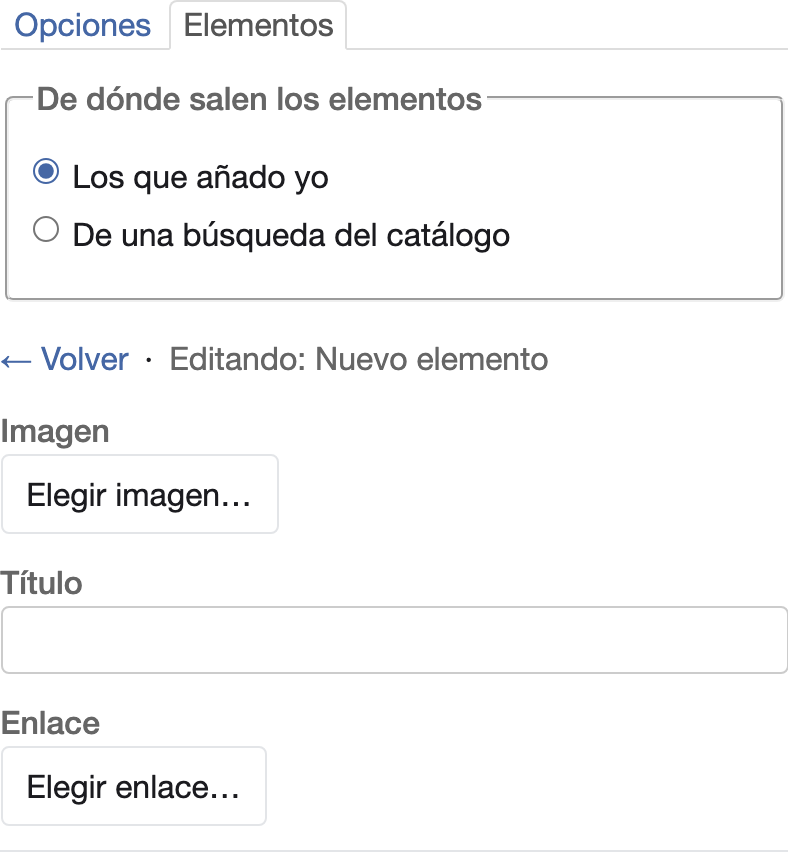
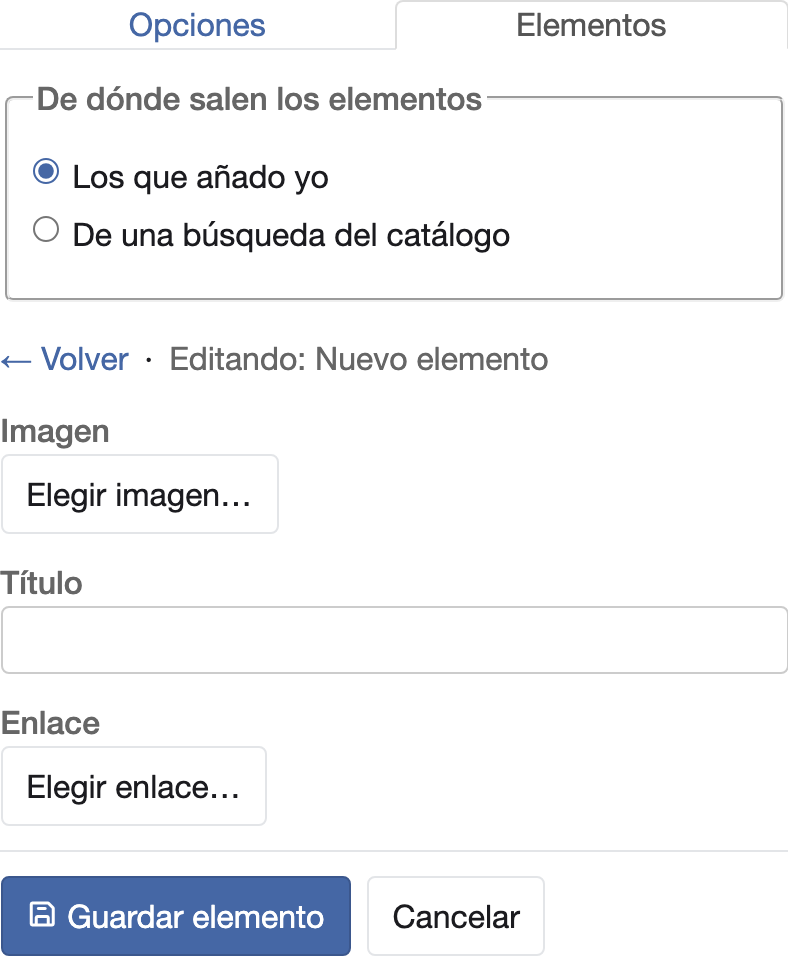
docs(user-guide): panel de propiedades del editor con la cabecera fija
Se regeneran las capturas que enseñan el panel.

diff --git a/docs/user-guide/diffusion-portal/block-options.md b/docs/user-guide/diffusion-portal/block-options.md
@@ -12,11 +12,11 @@ cuentan como contenido de ejemplo al publicar
 2. Debajo de las opciones de contenido están los grupos, cada uno con su nombre y una flecha. En una **Imagen con
    pie**, por ejemplo, son **Imagen**, **Textos**, **Enlace** y **Otros ajustes**.
 
-    ![Los cuatro grupos plegados de una Imagen con pie: Imagen, Textos, Enlace y Otros ajustes.](../../assets/screenshots/es/diffusion-portal/block-options/groups-folded.png){ width="418" }
+    ![Los cuatro grupos plegados de una Imagen con pie: Imagen, Textos, Enlace y Otros ajustes.](../../assets/screenshots/es/diffusion-portal/block-options/groups-folded.png){ width="394" }
 
 3. Pulsa el nombre del grupo. Se despliega con sus opciones y la ayuda de cada una.
 
-    ![El grupo Enlace desplegado, con sus opciones.](../../assets/screenshots/es/diffusion-portal/block-options/group-open.png){ width="419" }
+    ![El grupo Enlace desplegado, con sus opciones.](../../assets/screenshots/es/diffusion-portal/block-options/group-open.png){ width="395" }
 
 4. Para plegarlo, vuelve a pulsar su nombre.
 
@@ -26,7 +26,9 @@ Cada vez que abres un bloque, sus grupos aparecen plegados, aunque tengan opcion
 
 Todos los tipos de bloque muestran arriba las opciones que definen su contenido y, debajo, sus grupos plegados. Los
 que muestran una serie de imágenes o elementos, marcados con «Sí» en la tabla, los editan en la pestaña
-**Elementos**, junto a **Opciones**.
+**Elementos**, junto a **Opciones**. Los demás no tienen pestañas.
+
+El nombre del bloque y las pestañas se quedan arriba mientras bajas por las opciones.
 
 | Bloque | Arriba | Grupos plegados | Pestaña **Elementos** |
 |---|---|---|---|
@@ -59,7 +61,7 @@ La cabecera de cada grupo dice qué opciones suyas tienen un valor distinto del 
 - Con hasta tres opciones cambiadas, las nombra. Por ejemplo: «Con cambios: Tiempo entre imágenes (milisegundos),
   Detener al pasar el ratón».
 
-    ![Cabecera de un grupo con una opción cambiada: «Con cambios:» y su nombre.](../../assets/screenshots/es/diffusion-portal/block-options/changes-header.png){ width="401" }
+    ![Cabecera de un grupo con una opción cambiada: «Con cambios:» y su nombre.](../../assets/screenshots/es/diffusion-portal/block-options/changes-header.png){ width="395" }
 
 - Con más de tres, dice cuántas son, por ejemplo «Con 4 cambios». Para ver sus nombres, deja el ratón sobre ese
   texto.

diff --git a/docs/user-guide/diffusion-portal/search-box.md b/docs/user-guide/diffusion-portal/search-box.md
@@ -51,10 +51,13 @@ Sus campos son estos:
       tienen ninguna.
     - **Nivel de descripción**: en **Valor**, el número de ese nivel en tu archivo.
 
-![El «Elemento 1» de los filtros de una Caja de búsqueda ya relleno: el texto del botón, Buscar por Lugar y el valor.](../../assets/screenshots/es/diffusion-portal/search-box/filters.png){ width="401" }
+![El «Elemento 1» de los filtros de una Caja de búsqueda ya relleno: el texto del botón, Buscar por Lugar y el valor.](../../assets/screenshots/es/diffusion-portal/search-box/filters.png){ width="395" }
 
 Mientras al elemento le falte un dato obligatorio, al escribir en él sale un aviso que nombra el campo, el número del
-elemento y la lista. Con **Eliminar elemento** quitas un tipo.
+elemento y la lista.
+
+Para quitar un tipo, pulsa **Eliminar elemento**. Sale al pasar el ratón por el tipo o al llegar a él con Tab, y siempre
+en una pantalla táctil.
 
 Para saber el número de un nivel de descripción, pulsa **Búsqueda** en el menú superior y después **Búsqueda
 avanzada**. En **Nivel de descripción**, desmarca **Todos**, marca solo ese nivel, escribe un término y pulsa

diff --git a/docs/user-guide/diffusion-portal/image-zoom.md b/docs/user-guide/diffusion-portal/image-zoom.md
@@ -61,8 +61,10 @@ ser la referencia de su descripción en el archivo
 ([Elegir un enlace](choose-images.md#elegir-un-enlace)). La colección se
 guarda con **Guardar elemento**.
 
-Para añadir una sola imagen, pulsa **Añadir imagen** y, en su **Fichero**, **Elegir imagen…**. Con **Eliminar
-imagen** quitas una de la lista.
+Para añadir una sola imagen, pulsa **Añadir imagen** y, en su **Fichero**, **Elegir imagen…**.
+
+Para quitar una imagen de la lista, pulsa **Eliminar imagen**. Sale al pasar el ratón por la imagen o al llegar a ella
+con Tab, y siempre en una pantalla táctil.
 
 ### Que la portada abra las imágenes
 

diff --git a/docs/user-guide/diffusion-portal/select-block.md b/docs/user-guide/diffusion-portal/select-block.md
@@ -33,7 +33,7 @@ imagen, se prueba en **Vista previa**.
 
 ## Cerrar las opciones
 
-Pulsa la X de la esquina superior derecha del panel, **Cerrar el panel de propiedades**. El panel se cierra y el
-bloque deja de estar resaltado.
+Pulsa la X de la esquina superior derecha del panel, **Cerrar el panel de propiedades**, que sigue a la vista aunque
+bajes por las opciones. El panel se cierra y el bloque deja de estar resaltado.
 
 ![El editor con el panel de propiedades cerrado y ningún bloque resaltado.](../../assets/screenshots/es/diffusion-portal/select-block/panel-closed.png){ width="738" }

diff --git a/docs/user-guide/diffusion-portal/carousel.md b/docs/user-guide/diffusion-portal/carousel.md
@@ -73,8 +73,8 @@ Para cambiarlo:
 
 Cada ajuste va en su fila.
 
-Para quitar un ajuste, pulsa el botón a la derecha de su fila. Al dejar el ratón sobre él, dice **Quitar este
-ajuste**.
+Para quitar un ajuste, pulsa el botón a la derecha de su fila, **Quitar este ajuste**. Sale al pasar el ratón por la
+fila o al llegar a ella con Tab, y siempre en una pantalla táctil.
 
 ## Comprobar el resultado
 
